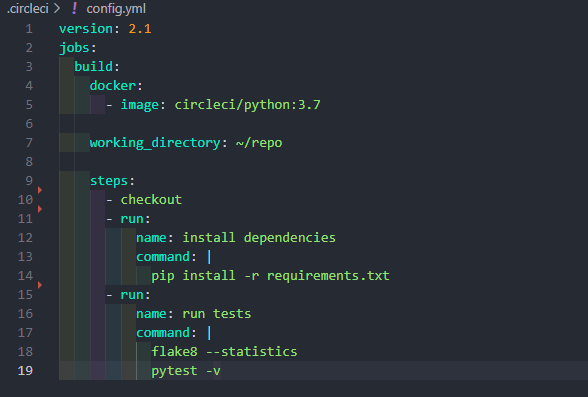
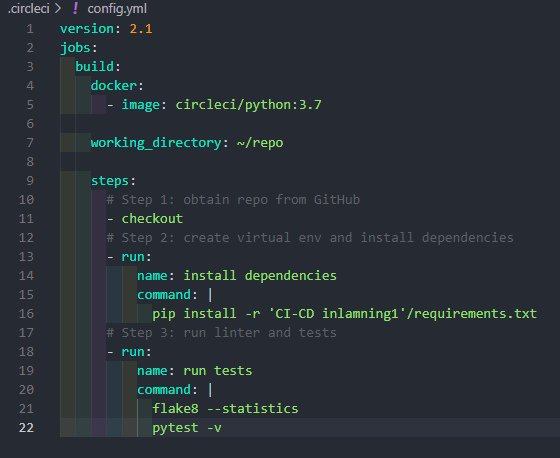
more images and readmefile

Changed region(s): [[0.0, 0.0, 0.9714, 0.9673], [0.3339, 0.5139, 0.9107, 0.5441], [0.3339, 0.4232, 0.6375, 0.4534]]

diff --git a/CI-CD inlamning1/README.md b/CI-CD inlamning1/README.md
@@ -3,6 +3,10 @@ test test
 ```
 
 - [Report](#Report)
+- [tests](#tests)
+    - [flake8](#flake8)
+    - [pytest](#pytest)
+- [circleci](#circleci)
 
 
 # Report
@@ -17,12 +21,30 @@ I created a basic python code that are easy to make tests for
 ![](img/1.png)
 
 
+## tests
 After that I created a test_calculator.py to test my code
 
 ![](img/2.png)
 
-by running 
+by running these commands in the terminal 
 ```python
 Py -m pip flake8 --statistics
 Py -m pip pytest
 ```
+# **flake8**
+![](img/4.png)
+
+# **pytest**
+![](img/5.png)
+
+## circleci
+
+I added a .circleci with a config.yml file to automate the tests to run whenever I push to any branch.
+
+![](img/3.png)
+
+![](img/3.png)
+
+![](img/3.png)
+
+![](img/3.png)
